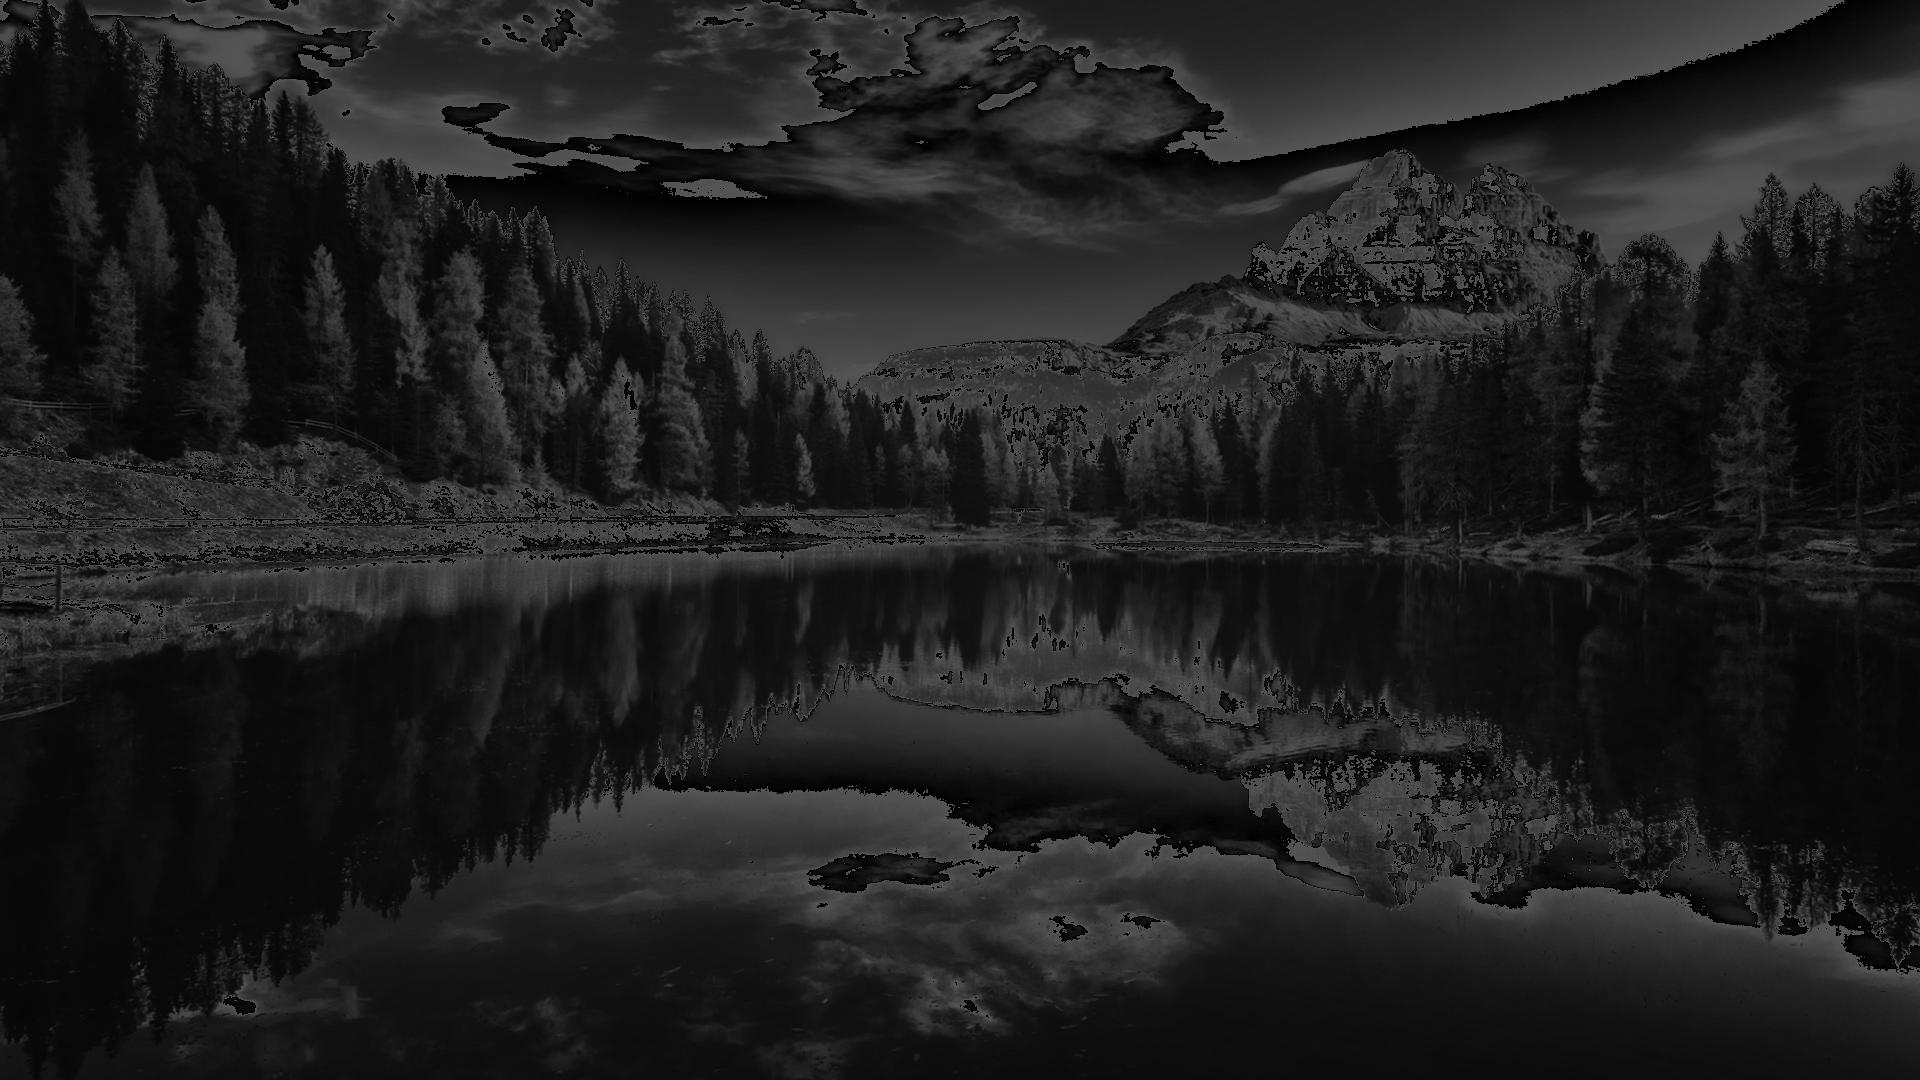
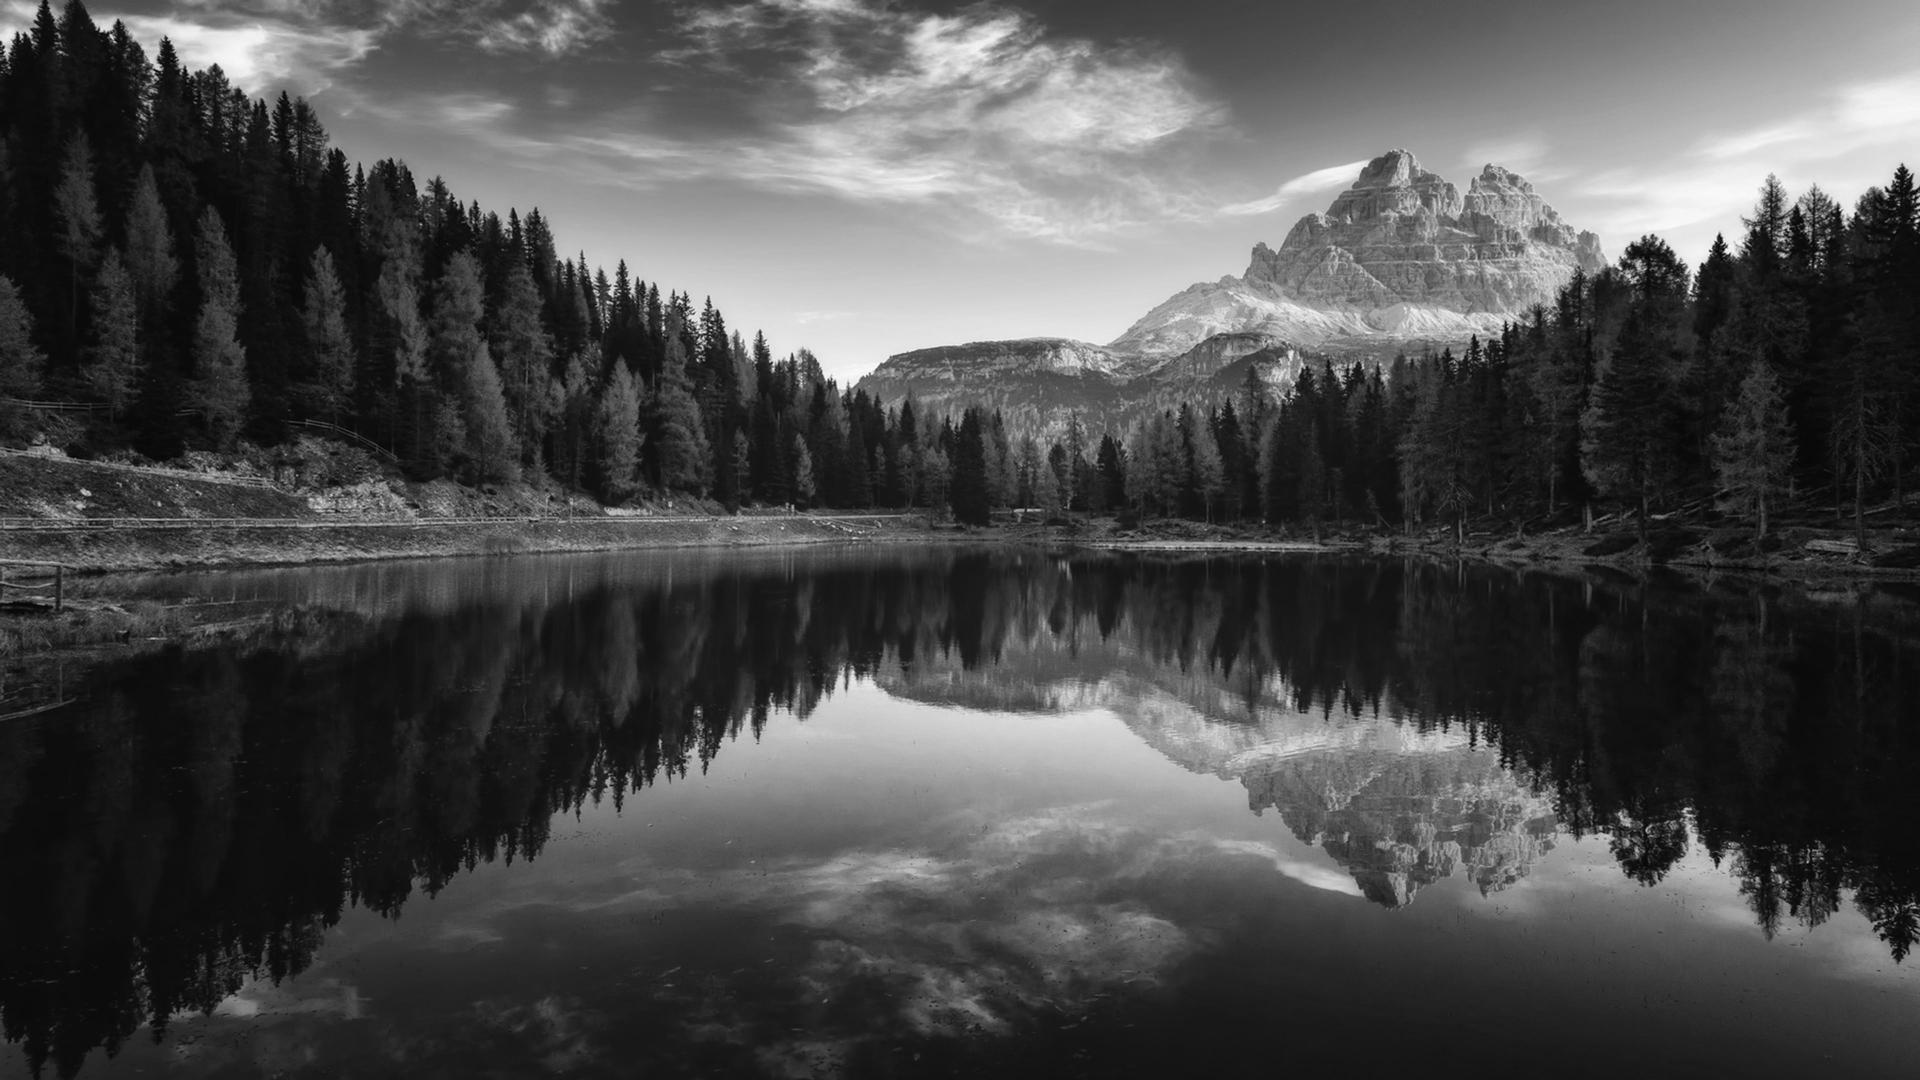
update LW2

diff --git a/hpc_lw2.py b/hpc_lw2.py
@@ -18,23 +18,25 @@ drive.mount('/content/drive')
 im = plt.imread("/content/drive/MyDrive/Colab Notebooks/image.jpg")
 
 shape = np.shape(im)
-shape
 
 imflatten = im.copy().reshape(shape[0]*shape[1],3)
+
+(imflatten[0][0] + imflatten[0][1] + imflatten[0][2])/3
 
 shape2 = np.shape(imflatten)
 
 t1 = time.time()
+imtemp = np.empty_like(imflatten)
 
-for i in imflatten:
-  gray = ((i[0]+i[1]+[2])/3)
-  i[0], i[1], i[2] = gray, gray, gray
+for i, pixel in enumerate(imflatten):
+  gray = np.uint8((int(pixel[0]) + int(pixel[1]) + int(pixel[2]))/3)
+  imtemp[i][0] = imtemp[i][1] = imtemp[i][2] = gray
 
 t2 = time.time()
 
 print(t2-t1)
 
-imgray1 = imflatten.reshape(1080, 1920, 3)
+imgray1 = imtemp.reshape(1080, 1920, 3)
 
 from PIL import Image
 imcpu = Image.fromarray(imgray1)
@@ -71,3 +73,5 @@ imgray2 = devOuput.copy_to_host()
 imgray3 = imgray2.reshape(1080, 1920, 3)
 imgpu = Image.fromarray(imgray3)
 imgpu.save("/content/drive/MyDrive/Colab Notebooks/image_gray_GPU.jpeg")
+
+imgray3
